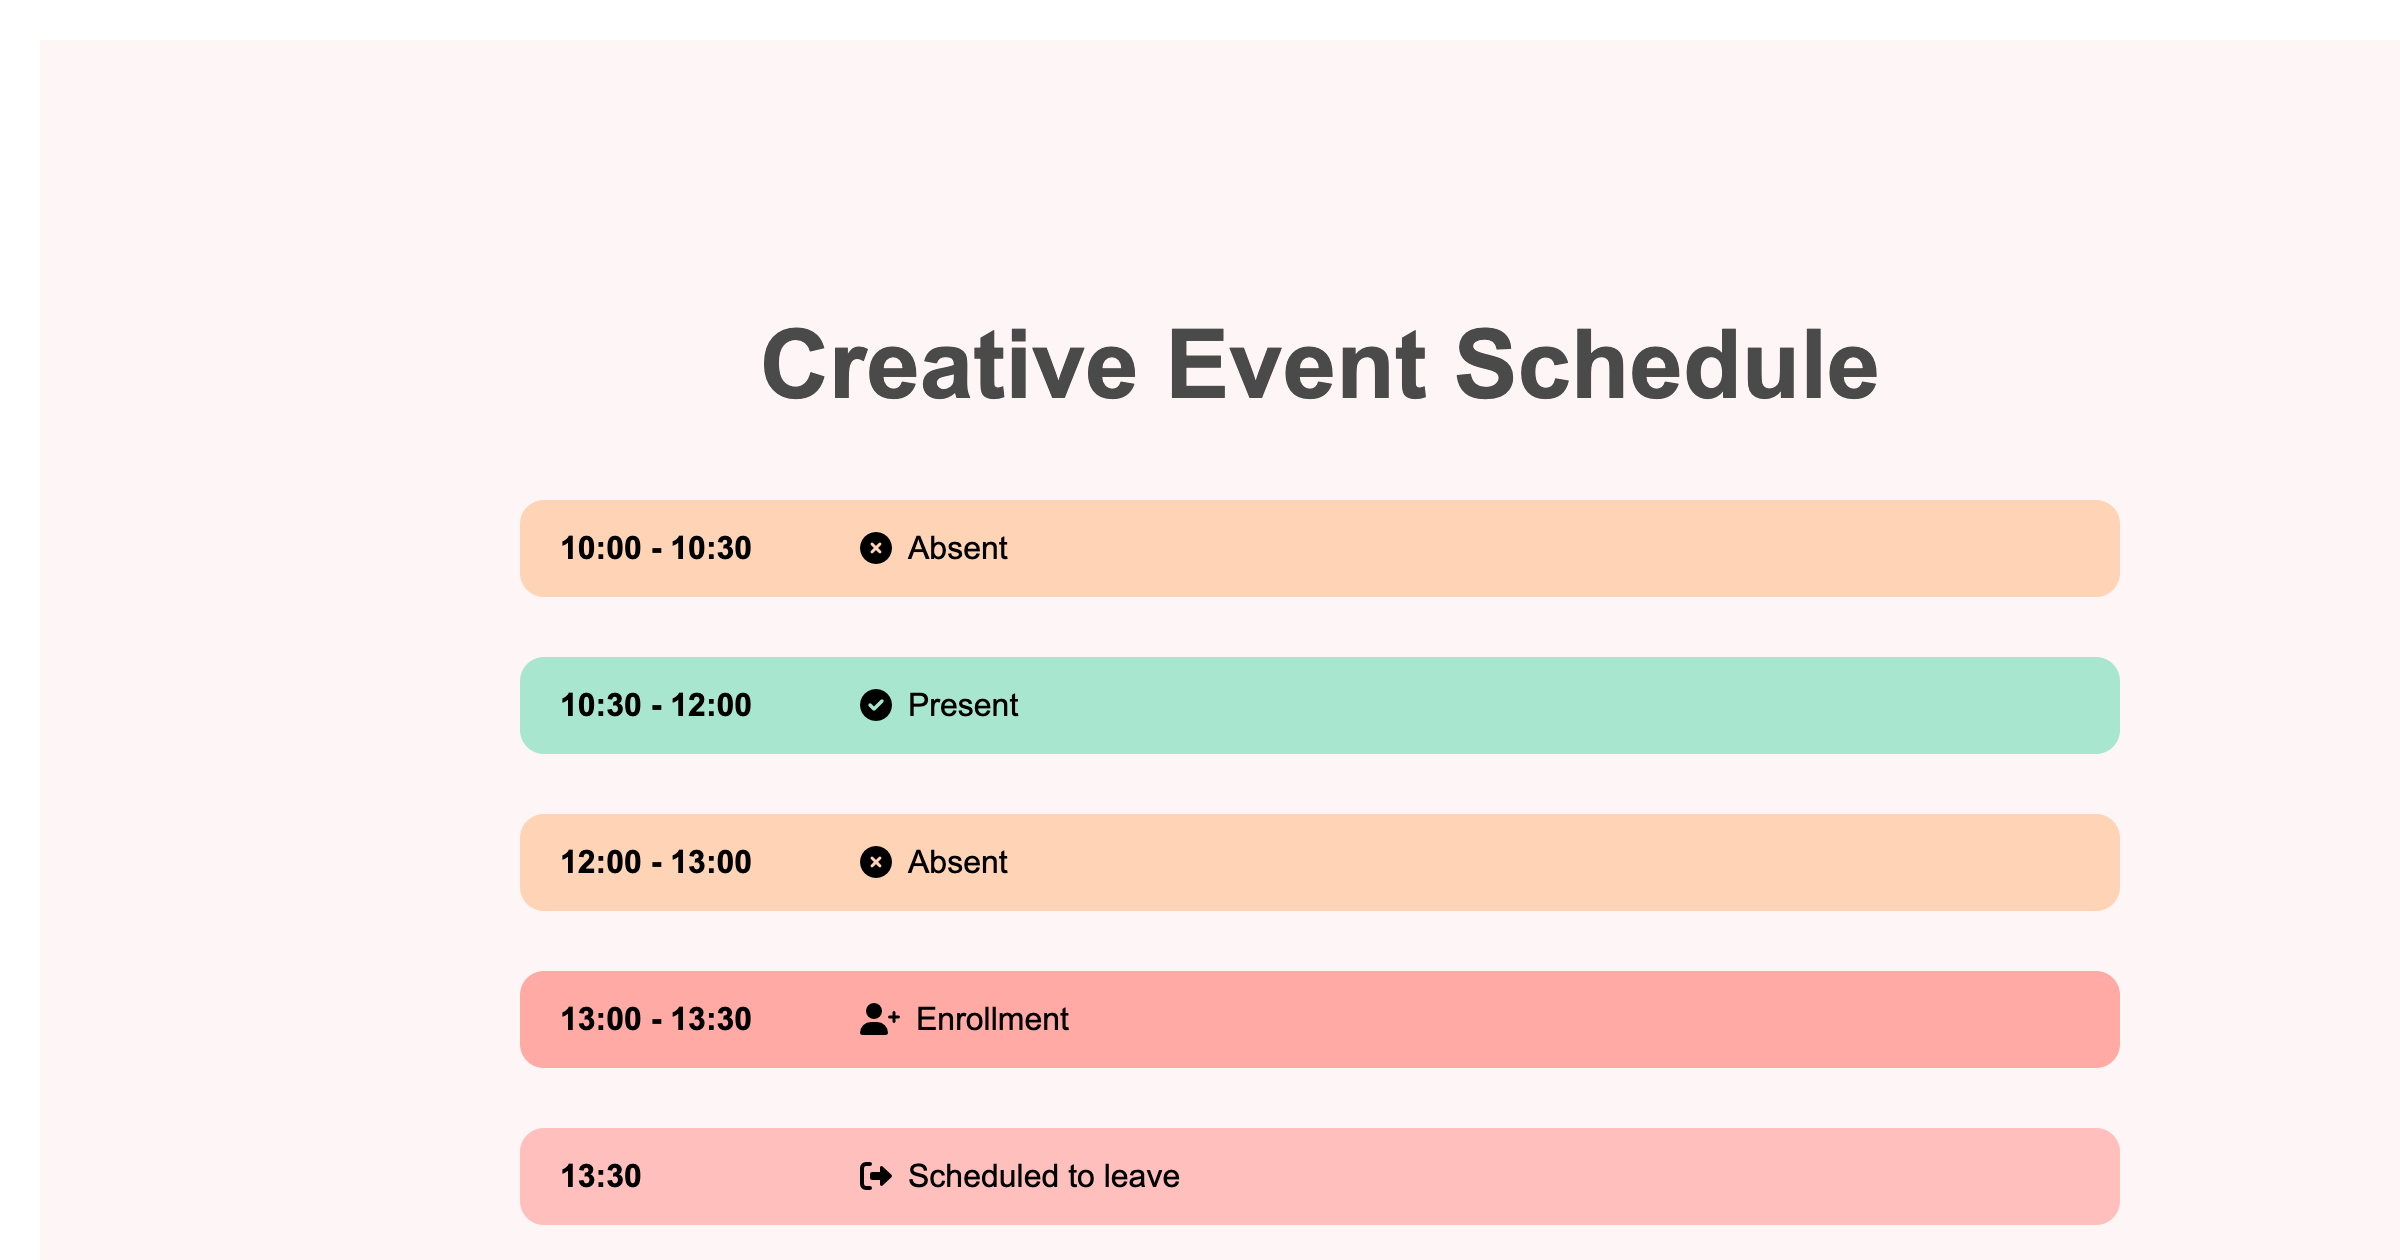
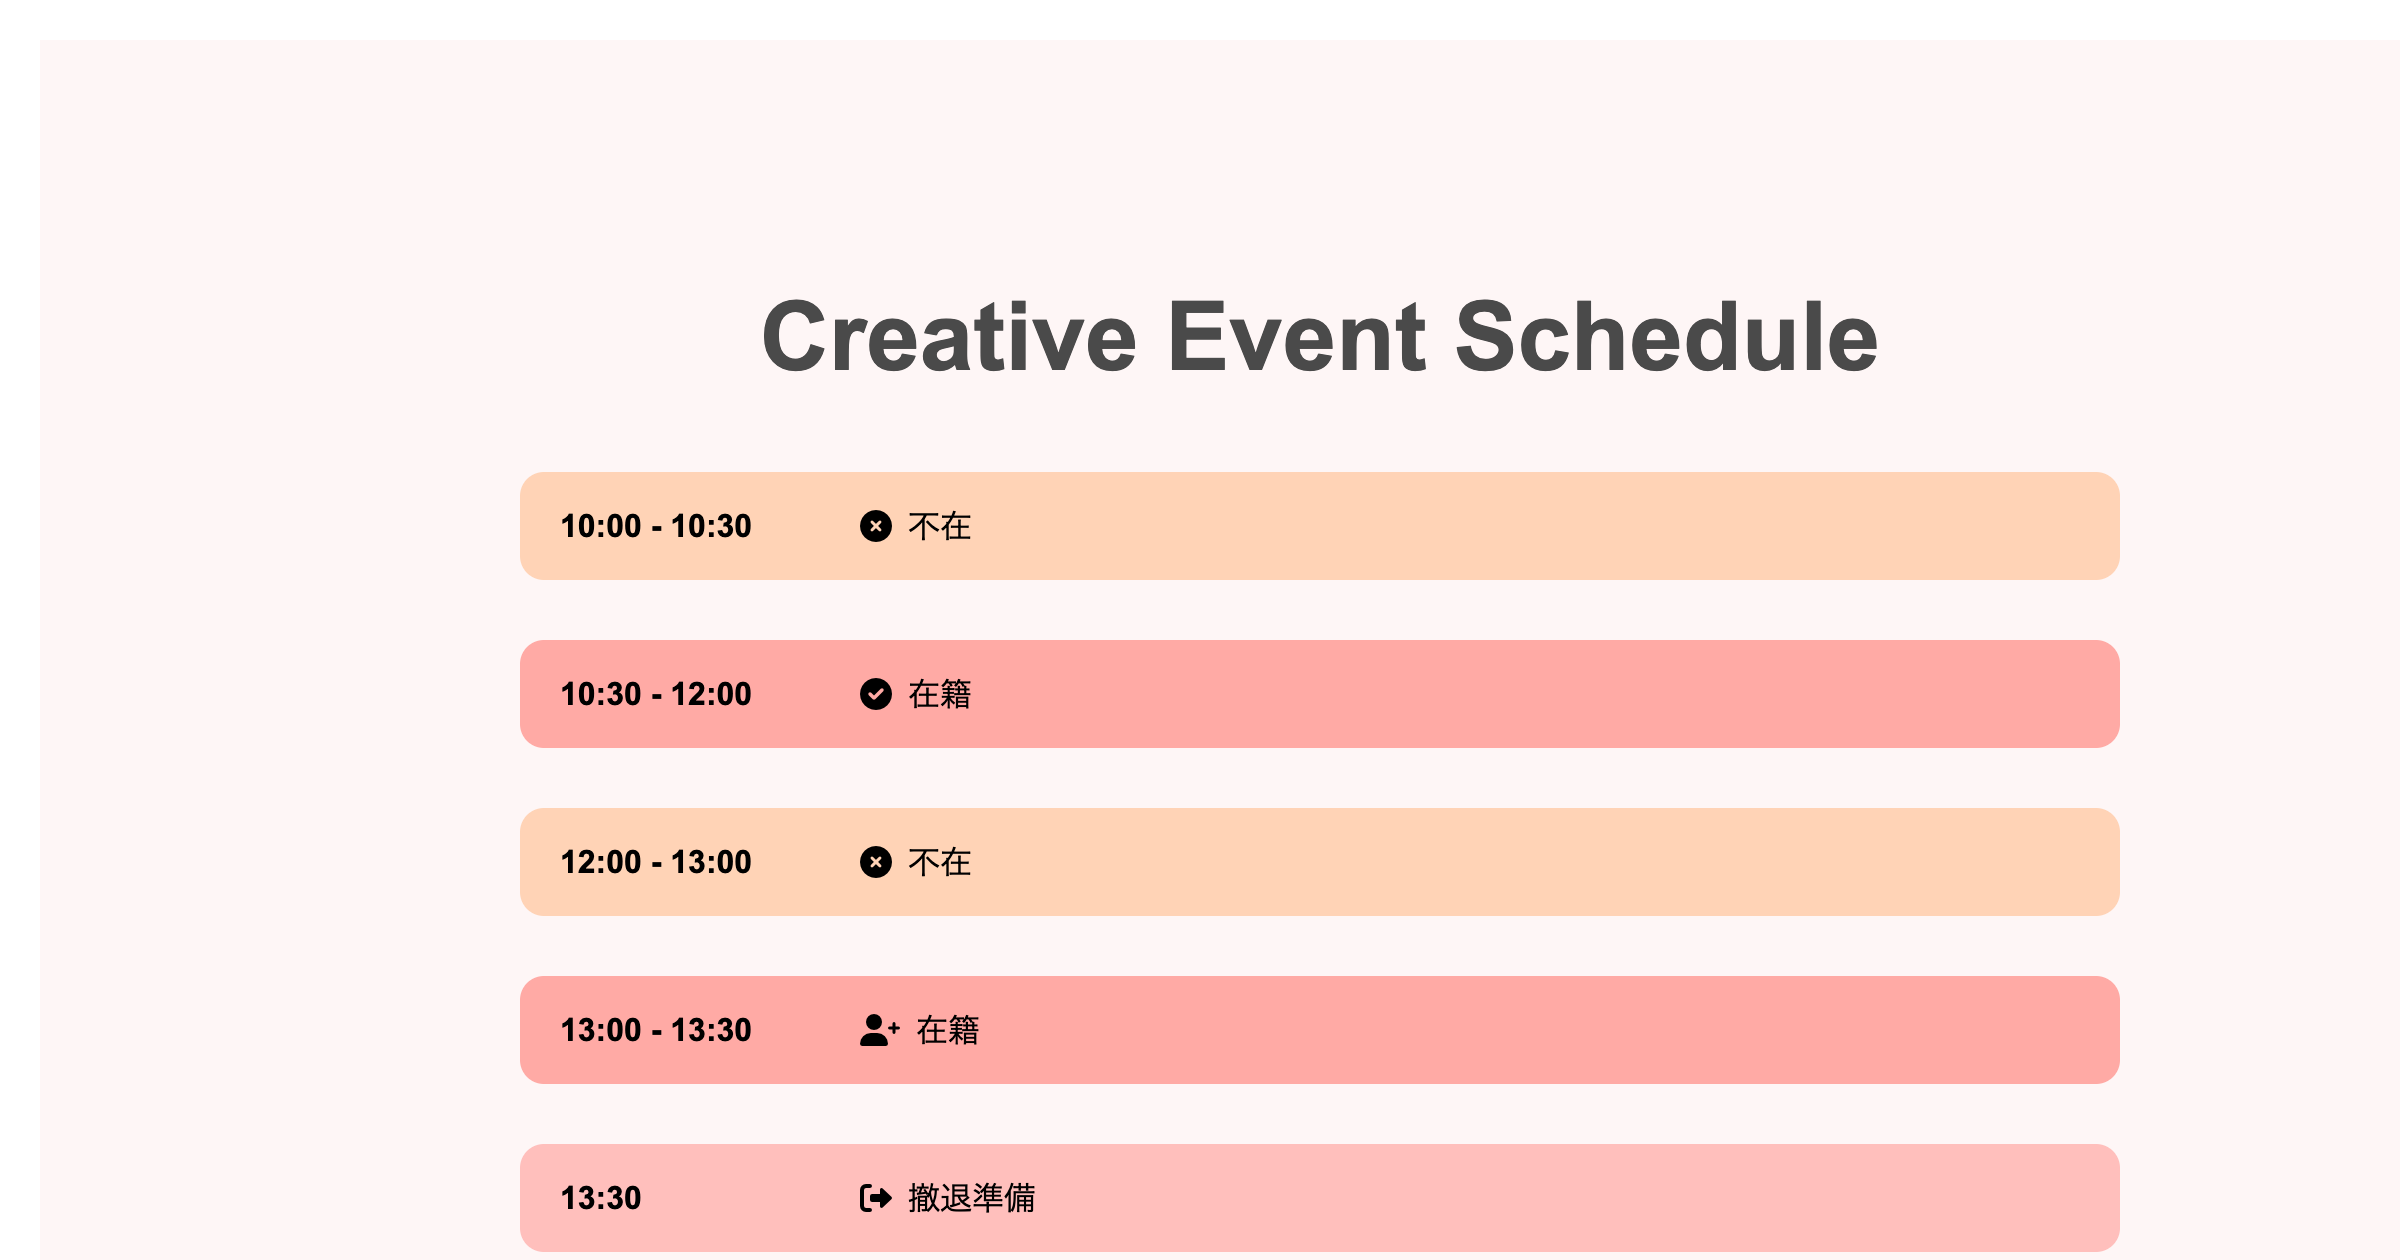
Updates

Changed region(s): [[0.2188, 0.3714, 0.9062, 0.8667], [0.2188, 0.8976, 0.9062, 1.0], [0.3125, 0.2167, 0.7812, 0.3405]]

diff --git a/index.html b/index.html
@@ -44,25 +44,25 @@
     <div class="container">
         <h1 class="title">Creative Event Schedule</h1>
         <div class="timetable" id="timetable">
-            <div class="timetable-item absent">
+            <div class="timetable-item 不在">
                 <span class="time">10:00 - 10:30</span>
-                <span class="status"><i class="fas fa-times-circle"></i> Absent</span>
+                <span class="status"><i class="fas fa-times-circle"></i> 不在</span>
             </div>
-            <div class="timetable-item present">
+            <div class="timetable-item 在籍">
                 <span class="time">10:30 - 12:00</span>
-                <span class="status"><i class="fas fa-check-circle"></i> Present</span>
+                <span class="status"><i class="fas fa-check-circle"></i> 在籍</span>
             </div>
-            <div class="timetable-item absent">
+            <div class="timetable-item 不在">
                 <span class="time">12:00 - 13:00</span>
-                <span class="status"><i class="fas fa-times-circle"></i> Absent</span>
+                <span class="status"><i class="fas fa-times-circle"></i> 不在</span>
             </div>
-            <div class="timetable-item enrollment">
+            <div class="timetable-item 在籍">
                 <span class="time">13:00 - 13:30</span>
-                <span class="status"><i class="fas fa-user-plus"></i> Enrollment</span>
+                <span class="status"><i class="fas fa-user-plus"></i> 在籍</span>
             </div>
             <div class="timetable-item leaving">
                 <span class="time">13:30</span>
-                <span class="status"><i class="fas fa-sign-out-alt"></i> Scheduled to leave</span>
+                <span class="status"><i class="fas fa-sign-out-alt"></i> 撤退準備</span>
             </div>
         </div>
         <p class="note"><i class="fas fa-info-circle"></i> If you make a comment in advance, we will adjust the time.</p>
@@ -115,13 +115,13 @@
                         item.style.transform = 'none';
                         
                         // Set explicit background colors and styles
-                        if (item.classList.contains('present')) {
+                        if (item.classList.contains('在籍')) {
                             item.style.backgroundColor = '#a8e6cf';
                             item.style.borderLeft = '6px solid #86d4b9';
-                        } else if (item.classList.contains('absent')) {
+                        } else if (item.classList.contains('不在')) {
                             item.style.backgroundColor = '#ffd3b6';
                             item.style.borderLeft = '6px solid #ffb088';
-                        } else if (item.classList.contains('enrollment')) {
+                        } else if (item.classList.contains('在籍')) {
                             item.style.backgroundColor = '#ffaaa5';
                             item.style.borderLeft = '6px solid #ff8882';
                         } else if (item.classList.contains('leaving')) {

diff --git a/generate-ogp.js b/generate-ogp.js
@@ -76,7 +76,7 @@ async function generateOGP() {
                     .timetable-item.absent {
                         background-color: #ffd3b6;
                     }
-                    .timetable-item.enrollment {
+                    .timetable-item.present {
                         background-color: #ffaaa5;
                     }
                     .timetable-item.leaving {
@@ -90,23 +90,23 @@ async function generateOGP() {
                     <div class="timetable">
                         <div class="timetable-item absent">
                             <span class="time">10:00 - 10:30</span>
-                            <span class="status"><i class="fas fa-times-circle"></i> Absent</span>
+                            <span class="status"><i class="fas fa-times-circle"></i> 不在</span>
                         </div>
                         <div class="timetable-item present">
                             <span class="time">10:30 - 12:00</span>
-                            <span class="status"><i class="fas fa-check-circle"></i> Present</span>
+                            <span class="status"><i class="fas fa-check-circle"></i> 在籍</span>
                         </div>
                         <div class="timetable-item absent">
                             <span class="time">12:00 - 13:00</span>
-                            <span class="status"><i class="fas fa-times-circle"></i> Absent</span>
+                            <span class="status"><i class="fas fa-times-circle"></i> 不在</span>
                         </div>
-                        <div class="timetable-item enrollment">
+                        <div class="timetable-item present">
                             <span class="time">13:00 - 13:30</span>
-                            <span class="status"><i class="fas fa-user-plus"></i> Enrollment</span>
+                            <span class="status"><i class="fas fa-user-plus"></i> 在籍</span>
                         </div>
                         <div class="timetable-item leaving">
                             <span class="time">13:30</span>
-                            <span class="status"><i class="fas fa-sign-out-alt"></i> Scheduled to leave</span>
+                            <span class="status"><i class="fas fa-sign-out-alt"></i> 撤退準備</span>
                         </div>
                     </div>
                 </div>

diff --git a/ogp-preview.html b/ogp-preview.html
@@ -36,25 +36,25 @@
     <div class="container">
         <h1 class="title">Creative Event Schedule</h1>
         <div class="timetable" id="timetable">
-            <div class="timetable-item absent">
+            <div class="timetable-item 不在">
                 <span class="time">10:00 - 10:30</span>
-                <span class="status"><i class="fas fa-times-circle"></i> Absent</span>
+                <span class="status"><i class="fas fa-times-circle"></i> 不在</span>
             </div>
-            <div class="timetable-item present">
+            <div class="timetable-item 在籍">
                 <span class="time">10:30 - 12:00</span>
-                <span class="status"><i class="fas fa-check-circle"></i> Present</span>
+                <span class="status"><i class="fas fa-check-circle"></i> 在籍</span>
             </div>
-            <div class="timetable-item absent">
+            <div class="timetable-item 不在">
                 <span class="time">12:00 - 13:00</span>
-                <span class="status"><i class="fas fa-times-circle"></i> Absent</span>
+                <span class="status"><i class="fas fa-times-circle"></i> 不在</span>
             </div>
-            <div class="timetable-item enrollment">
+            <div class="timetable-item 在籍">
                 <span class="time">13:00 - 13:30</span>
-                <span class="status"><i class="fas fa-user-plus"></i> Enrollment</span>
+                <span class="status"><i class="fas fa-user-plus"></i> 在籍</span>
             </div>
             <div class="timetable-item leaving">
                 <span class="time">13:30</span>
-                <span class="status"><i class="fas fa-sign-out-alt"></i> Scheduled to leave</span>
+                <span class="status"><i class="fas fa-sign-out-alt"></i> 撤退準備</span>
             </div>
         </div>
     </div>

diff --git a/styles.scss b/styles.scss
@@ -2,7 +2,7 @@
 $color-bg: #fef6f6;
 $color-present: #a8e6cf;
 $color-absent: #ffd3b6;
-$color-enrollment: #ffaaa5;
+// $color-present: #ffaaa5;
 $color-text: #4a4a4a;
 $border-radius: 12px;
 
@@ -113,21 +113,21 @@ body {
         }
     }
 
-    &.enrollment {
-        background-color: $color-enrollment;
-        border-left: 6px solid color.adjust($color-enrollment, $lightness: -20%);
+    &.在籍 {
+        background-color: $color-present;
+        border-left: 6px solid color.adjust($color-present, $lightness: -20%);
 
         i {
-            color: color.adjust($color-enrollment, $lightness: -30%);
+            color: color.adjust($color-present, $lightness: -30%);
         }
     }
 
     &.leaving {
-        background-color: color.adjust($color-enrollment, $lightness: 10%);
-        border-left: 6px solid $color-enrollment;
+        background-color: color.adjust($color-present, $lightness: 10%);
+        border-left: 6px solid $color-present;
 
         i {
-            color: color.adjust($color-enrollment, $lightness: -20%);
+            color: color.adjust($color-present, $lightness: -20%);
         }
     }
 }

diff --git a/styles.css b/styles.css
@@ -1,3 +1,4 @@
+@charset "UTF-8";
 @keyframes fadeIn {
   from {
     opacity: 0;
@@ -103,19 +104,19 @@ body {
 .timetable-item.absent i {
   color: rgb(255, 118.7808219178, 29);
 }
-.timetable-item.enrollment {
-  background-color: #ffaaa5;
-  border-left: 6px solid rgb(255, 73.6666666667, 63);
+.timetable-item.在籍 {
+  background-color: #a8e6cf;
+  border-left: 6px solid rgb(88.7678571429, 207.2321428571, 163.2857142857);
 }
-.timetable-item.enrollment i {
-  color: rgb(255, 25.5, 12);
+.timetable-item.在籍 i {
+  color: rgb(54.6875, 190.3125, 140);
 }
 .timetable-item.leaving {
-  background-color: rgb(255, 218.1666666667, 216);
-  border-left: 6px solid #ffaaa5;
+  background-color: rgb(207.6160714286, 241.3839285714, 228.8571428571);
+  border-left: 6px solid #a8e6cf;
 }
 .timetable-item.leaving i {
-  color: rgb(255, 73.6666666667, 63);
+  color: rgb(88.7678571429, 207.2321428571, 163.2857142857);
 }
 
 .download-btn {
